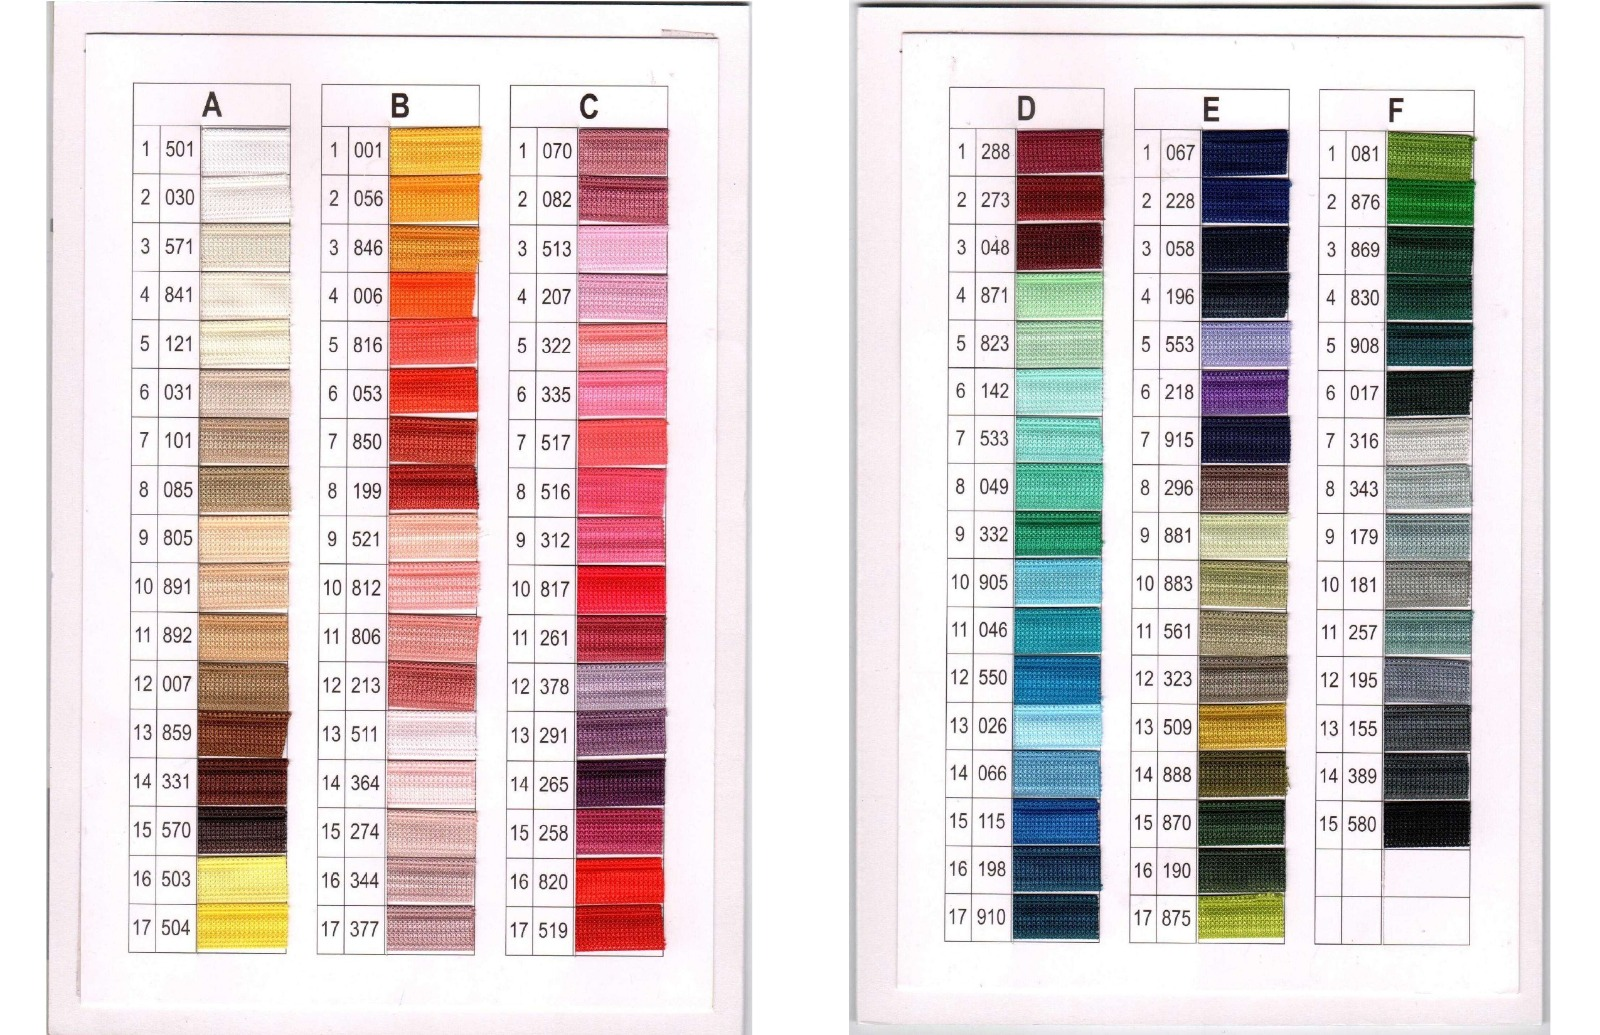
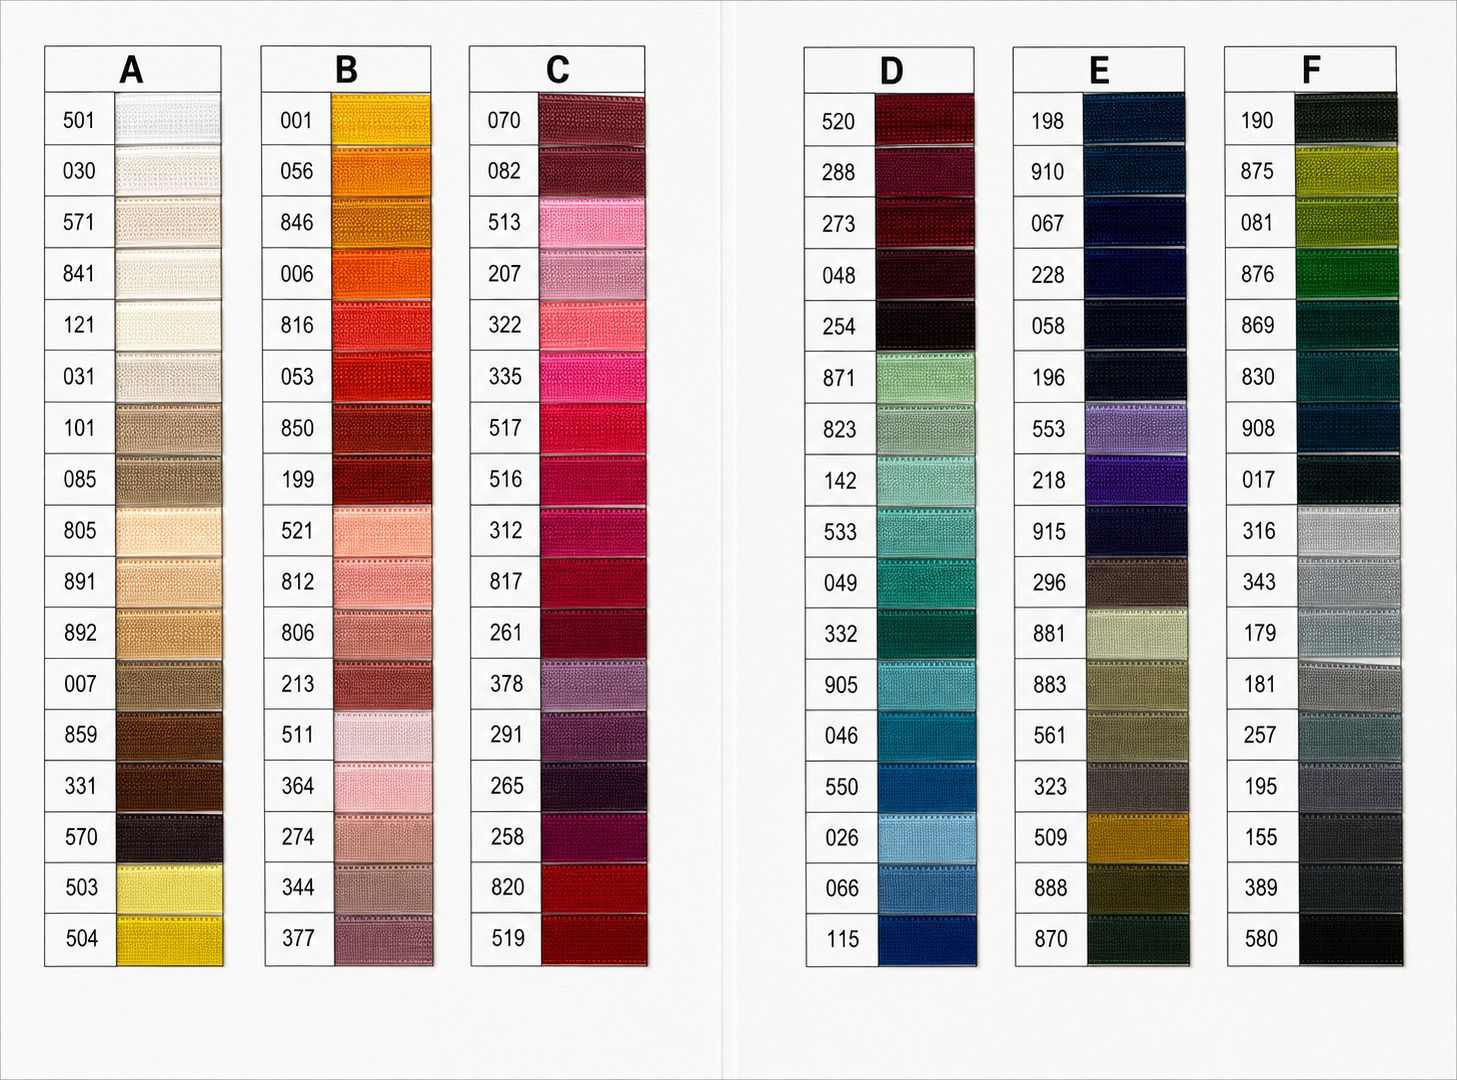
shades

diff --git a/src/components/about.jsx b/src/components/about.jsx
@@ -11,13 +11,15 @@ export const About = (props) => {
       <div id="about">
         <div className="container">
           <div className="row">
+           <div className="section-title text-center">
+              <h2 className="about-heading">About Us</h2>
+            </div>
             <div className="col-xs-12 col-md-6">
               {" "}
               <img src="img/about.jpg" className="img-responsive" alt="" />{" "}
             </div>
             <div className="col-xs-12 col-md-6">
               <div className="about-text">
-                <h2>About Us</h2>
                 <p>
                   At D.A ENTERPRISES, based in Delhi NCR, we specialize in
                   delivering high-quality concealed zippers that combine
@@ -37,14 +39,29 @@ export const About = (props) => {
                 <h3>Why Choose Us?</h3>
                 <div className="list-style">
                   <div className="col-lg-6 col-sm-6 col-xs-12">
-                    <ul><i className="fa fa-check"></i>
+                    <ul>
+                      <i className="fa fa-check"></i>
                       High-quality concealed zippers
                     </ul>
-                    <ul><i className="fa fa-check"></i>Reliable supply across India</ul>
-                    <ul><i className="fa fa-check"></i>Competitive pricing structure</ul>
-                    <ul><i className="fa fa-check"></i>Timely delivery & efficient logistics</ul>
-                    <ul><i className="fa fa-check"></i>Strong customer support</ul>
-                    <ul><i className="fa fa-check"></i>Trusted by manufacturers & exporters</ul>
+                    <ul>
+                      <i className="fa fa-check"></i>Reliable supply across
+                      India
+                    </ul>
+                    <ul>
+                      <i className="fa fa-check"></i>Competitive pricing
+                      structure
+                    </ul>
+                    <ul>
+                      <i className="fa fa-check"></i>Timely delivery & efficient
+                      logistics
+                    </ul>
+                    <ul>
+                      <i className="fa fa-check"></i>Strong customer support
+                    </ul>
+                    <ul>
+                      <i className="fa fa-check"></i>Trusted by manufacturers &
+                      exporters
+                    </ul>
                   </div>
                 </div>
               </div>

diff --git a/public/css/style.css b/public/css/style.css
@@ -280,7 +280,7 @@ header .intro-text {
   height: 4px;
   width: 60px;
   bottom: 0;
-  left: 0;
+  /* left: 0; */
 }
 #about .about-text li {
   margin-bottom: 6px;
@@ -306,6 +306,26 @@ header .intro-text {
 #about p {
   line-height: 24px;
   margin: 30px 0;
+}
+
+.about-heading {
+  font-size: 42px;
+  font-weight: 700;
+  margin-bottom: 15px;
+  position: relative;
+  display: inline-block;
+}
+
+.about-heading::after {
+  content: "";
+  position: absolute;
+  width: 70px;
+  height: 4px;
+  bottom: -10px;
+  left: 50%;
+  transform: translateX(-50%);
+  background: linear-gradient(to right, #5ca9fb 0%, #6372ff 100%);
+  border-radius: 10px;
 }
 /* Services Section */
 #services {
@@ -776,7 +796,31 @@ label {
   padding: 5px;
   background: #fff;
 }
+.size-color-images {
+  display: flex;
+  justify-content: center;
+  margin-top: 20px;
+}
 
+.highlight-image {
+  padding: 10px;
+  border-radius: 12px;
+  background: #fff;
+  box-shadow: 0 4px 15px rgba(0, 0, 0, 0.15);
+  transition: 0.3s ease;
+}
+
+.highlight-image:hover {
+  transform: scale(1.03);
+}
+
+.highlight-image img {
+  width: 100%;
+  max-width: 350px;
+  height: auto;
+  border-radius: 10px;
+  object-fit: contain;
+}
 
 
 .product-img {
@@ -851,3 +895,56 @@ label {
   background: linear-gradient(to right, #5ca9fb 0%, #6372ff 100%);
   color: white;
 }
+
+/* shades */
+
+.shades-section {
+  padding: 100px 0;
+  background: #f9fbff;
+}
+
+.shade-heading {
+  font-size: 42px;
+  font-weight: 700;
+  margin-bottom: 15px;
+  position: relative;
+  display: inline-block;
+}
+
+.shade-heading::after {
+  content: "";
+  position: absolute;
+  width: 70px;
+  height: 4px;
+  bottom: -10px;
+  left: 50%;
+  transform: translateX(-50%);
+  background: linear-gradient(to right, #5ca9fb 0%, #6372ff 100%);
+  border-radius: 10px;
+}
+
+.shade-subtitle {
+  max-width: 700px;
+  margin: 25px auto 40px;
+  font-size: 18px;
+  color: #666;
+  line-height: 1.7;
+}
+
+.shade-image-wrapper {
+  width: 100%;
+  display: flex;
+  justify-content: center;
+}
+
+.full-screen-shade-image {
+  width: 100%;
+  max-width: 1400px;
+  height: auto;
+  border-radius: 16px;
+  box-shadow: 0 6px 20px rgba(0, 0, 0, 0.15);
+  object-fit: contain;
+}
+
+
+/* navbar test */

diff --git a/src/components/singleProduct.jsx b/src/components/singleProduct.jsx
@@ -1,14 +1,14 @@
 import React, { useEffect } from "react";
 import { useParams } from "react-router";
-import size from "../images/Size.jpeg";
+// import size from "../images/Size.jpeg";
 import color from "../images/color.jpeg";
 // import { Navigation } from "./navigation";
 // import { Footer } from "./footer";
 
 export const SingleProduct = (props) => {
-    useEffect(() => {
-      window.scrollTo(0, 0);
-    }, []);
+  useEffect(() => {
+    window.scrollTo(0, 0);
+  }, []);
   const { id } = useParams();
 
   const whatsappMessage = `I want to buy this product: `;
@@ -50,21 +50,15 @@ export const SingleProduct = (props) => {
                 }}
               />
               <div className="size-color-images">
-                <img
-                  src={size}
-                  alt="Size Chart"
-                  onError={(e) => {
-                    e.target.src = "https://via.placeholder.com/400";
-                  }}
-                />
-
-                <img
-                  src={color}
-                  alt="Color Chart"
-                  onError={(e) => {
-                    e.target.src = "https://via.placeholder.com/400";
-                  }}
-                />
+                <div className="highlight-image">
+                  <img
+                    src={color}
+                    alt="Color Chart"
+                    onError={(e) => {
+                      e.target.src = "https://via.placeholder.com/400";
+                    }}
+                  />
+                </div>
               </div>
             </div>
 

diff --git a/src/components/contact.jsx b/src/components/contact.jsx
@@ -156,7 +156,7 @@ Message: ${message}
 
           {/* Google Map */}
           <div style={{ marginTop: "40px" }}>
-            <iframe
+            {/* <iframe
               title="Google Map Location"
               src="https://www.google.com/maps/embed?pb=!1m18!1m12!1m3!1d3505.8571852584137!2d77.29724818295293!3d28.51394422689437!2m3!1f0!2f0!3f0!3m2!1i1024!2i768!4f13.1!3m3!1m2!1s0x390ce75da7945553%3A0x1a9d4d4c36917529!2sGautam%20puri!5e0!3m2!1sen!2sus!4v1775632389984!5m2!1sen!2sus"
               width="100%"
@@ -164,6 +164,16 @@ Message: ${message}
               style={{ border: 0 }}
               loading="lazy"
               referrerPolicy="no-referrer-when-downgrade"
+            ></iframe> */}
+
+            <iframe
+             title="Google Map Location"
+              src="https://www.google.com/maps/embed?pb=!1m18!1m12!1m3!1d3505.8332017243083!2d77.3035112!3d28.514665700000002!2m3!1f0!2f0!3f0!3m2!1i1024!2i768!4f13.1!3m3!1m2!1s0x390ce771fdc41679%3A0xfa6bfc00fe357547!2sD.A%20Enterprises!5e0!3m2!1sen!2sin!4v1778228666142!5m2!1sen!2sin"
+              width="100%"
+              height="450"
+              style={{ border: 0 }}
+              loading="lazy"
+              referrerpolicy="no-referrer-when-downgrade"
             ></iframe>
           </div>
         </div>

diff --git a/src/components/shades.jsx b/src/components/shades.jsx
@@ -1,0 +1,39 @@
+import React from "react";
+import color from "../images/color.jpeg";
+
+export const Shades = () => {
+  return (
+    <div id="portfolio" className="text-center shades-section">
+
+      <div className="container">
+
+        {/* Heading */}
+        <div className="section-title">
+          <h2 className="shade-heading">
+            Shades Available
+          </h2>
+
+          <p className="shade-subtitle">
+            Explore our wide range of premium zipper shades designed to match
+            every fabric and style perfectly.
+          </p>
+        </div>
+
+        {/* Full Screen Image */}
+        <div className="shade-image-wrapper">
+
+          <img
+            src={color}
+            alt="Color Chart"
+            className="full-screen-shade-image"
+            onError={(e) => {
+              e.target.src = "https://via.placeholder.com/1200x600";
+            }}
+          />
+
+        </div>
+
+      </div>
+    </div>
+  );
+};

diff --git a/src/components/home.jsx b/src/components/home.jsx
@@ -13,6 +13,7 @@ import SmoothScroll from "smooth-scroll";
 // import { Footer } from "./footer";
 // import { Route, Routes } from 'react-router-dom';
 import "../App.css";
+import { Shades } from "./shades";
 
 export const scroll = new SmoothScroll('a[href*="#"]', {
   speed: 1000,
@@ -33,10 +34,12 @@ const Home = () => {
     <div>
       {/* <Navigation /> */}
       <Header data={landingPageData.Header} />
+      <Gallery data={landingPageData.Gallery} />
+      <Shades />
       <Features data={landingPageData.Features} />
       
       <Services data={landingPageData.Services} />
-      <Gallery data={landingPageData.Gallery} />
+      
       <About data={landingPageData.About} />
       {/* <Testimonials data={landingPageData.Testimonials} /> */}
       {/* <Team data={landingPageData.Team} /> */}

diff --git a/public/index.html b/public/index.html
@@ -1,7 +1,7 @@
 <head>
   <meta charset="utf-8" />
   <meta name="viewport" content="width=device-width, initial-scale=1" />
-  <link rel="shortcut icon" href="img/favicon.ico" type="image/x-icon" />
+ <link rel="shortcut icon" href="/images/zip.png" type="image/png" />
   <link rel="apple-touch-icon" href="img/apple-touch-icon.png" />
   <link
     rel="apple-touch-icon"
@@ -40,7 +40,7 @@
     href="https://fonts.googleapis.com/css?family=Raleway:300,400,500,600,700,800,900"
     rel="stylesheet"
   />
-  <title>Ziphosa</title>
+  <title>ZIPHOSA — Powered by D.A. ENTERPRISES</title>
   <meta name="description" content="" />
   <meta name="author" content="@Issaafalkattan" />
 </head>

diff --git a/src/components/navigation.jsx b/src/components/navigation.jsx
@@ -22,7 +22,8 @@ export const Navigation = () => {
           </button>
 
           <NavLink to="/" className="navbar-brand">
-            <img src={logo} alt="logo" />
+            <img src={logo} alt="ZIPHOSA — Powered by D.A. ENTERPRISES" />
+            {/* <p></p> */}
           </NavLink>
         </div>
 
